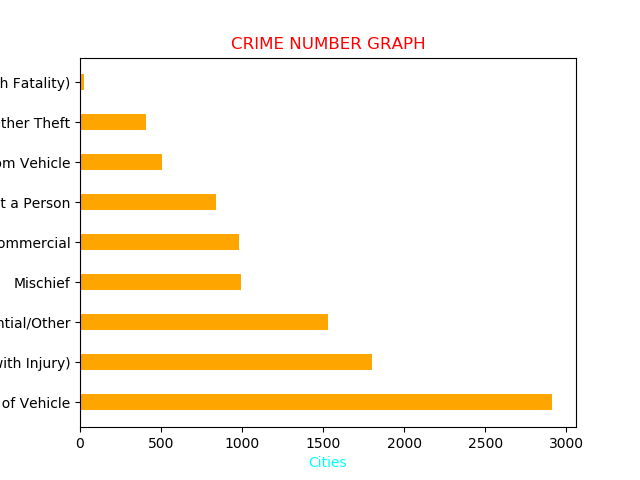
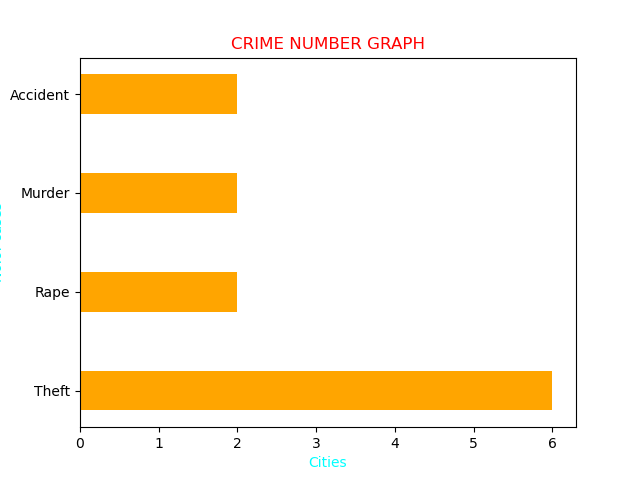
Edited

diff --git a/crime-predict/CrimeTypePrediction.py b/crime-predict/CrimeTypePrediction.py
@@ -4,11 +4,15 @@ import matplotlib.pyplot as plt
 from sklearn.neighbors import KNeighborsClassifier
 from sklearn.metrics import classification_report, confusion_matrix
 from sklearn.model_selection import cross_val_score
+import sqlite3
 
-data = pd.read_csv("crime.csv")
-demo = data.iloc[0:10000]
+con = sqlite3.connect("../store.db")
+df = pd.read_sql_query("SELECT * from map", con)
 
-visual = demo['TYPE'].value_counts()
+data = df
+demo = data
+
+visual = demo['type'].value_counts()
 fig, ax = plt.subplots()
 width = 0.4
 ax.barh(visual.index, visual.values, width, color='Orange')
@@ -18,7 +22,7 @@ ax.set_title('CRIME NUMBER GRAPH', color='red')
 plt.savefig('barchart.png')
 
 # Pie chart, where the slices will be ordered and plotted counter-clockwise:
-explode = (0, 0, 0, 0, 0, 0, 0, 0, 0)
+explode = (0) * visual.index
 fig1, ax1 = plt.subplots()
 ax1.pie(visual.values, explode=explode, labels=visual.index, autopct='%1.1f%%',
         shadow=True, startangle=30)
@@ -26,13 +30,13 @@ ax1.axis('equal')
 plt.savefig('piechart.png')
 
 # Removing Outliers
-value_c = demo['Latitude'].value_counts()
-rem = value_c[value_c < 10].index
-demo = demo[~demo['Latitude'].isin(rem)]
+#value_c = demo['Latitude'].value_counts()
+#rem = value_c[value_c < 10].index
+#demo = demo[~demo['Latitude'].isin(rem)]
 
 # Separating inputs and outputs
-x = demo.iloc[:, [10, 11]].values.reshape(-1, 2)
-y = demo['TYPE'].values
+x = demo.iloc[:, [1, 2]].values.reshape(-1, 2)
+y = demo['type'].values
 
 from sklearn import preprocessing
 le = preprocessing.LabelEncoder()

diff --git a/crime-predict/CrimeTypePredict.py b/crime-predict/CrimeTypePredict.py
@@ -22,8 +22,8 @@ try:
     norm = pickle.load(open('norm.pkl', 'rb'))
     le = pickle.load(open('le.pkl', 'rb'))
     w = pickle.load(open('weight.pkl', 'rb'))
-    data = pd.read_csv("crime.csv")
-    demo = data.iloc[0:10000]
+    #data = pd.read_csv("crime.csv")
+    #demo = data.iloc[0:10000]
     # places = {}
     # for row in demo.values:
     #     if row[10] not in places.keys():
